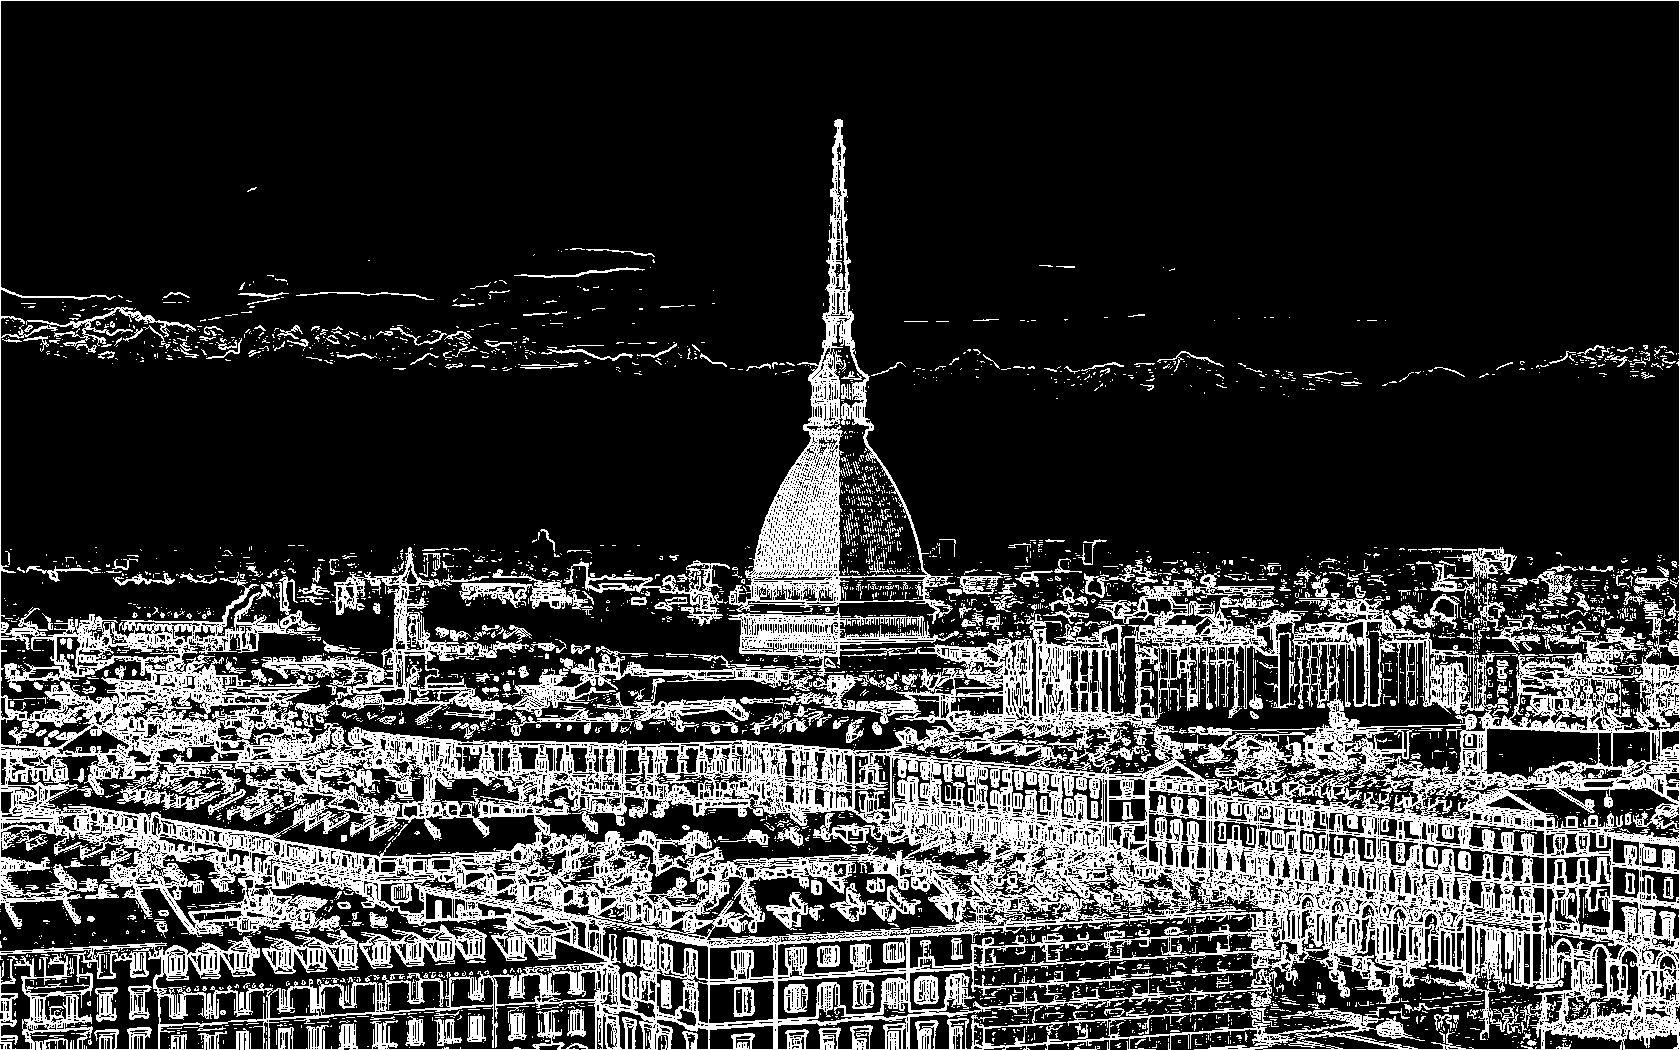
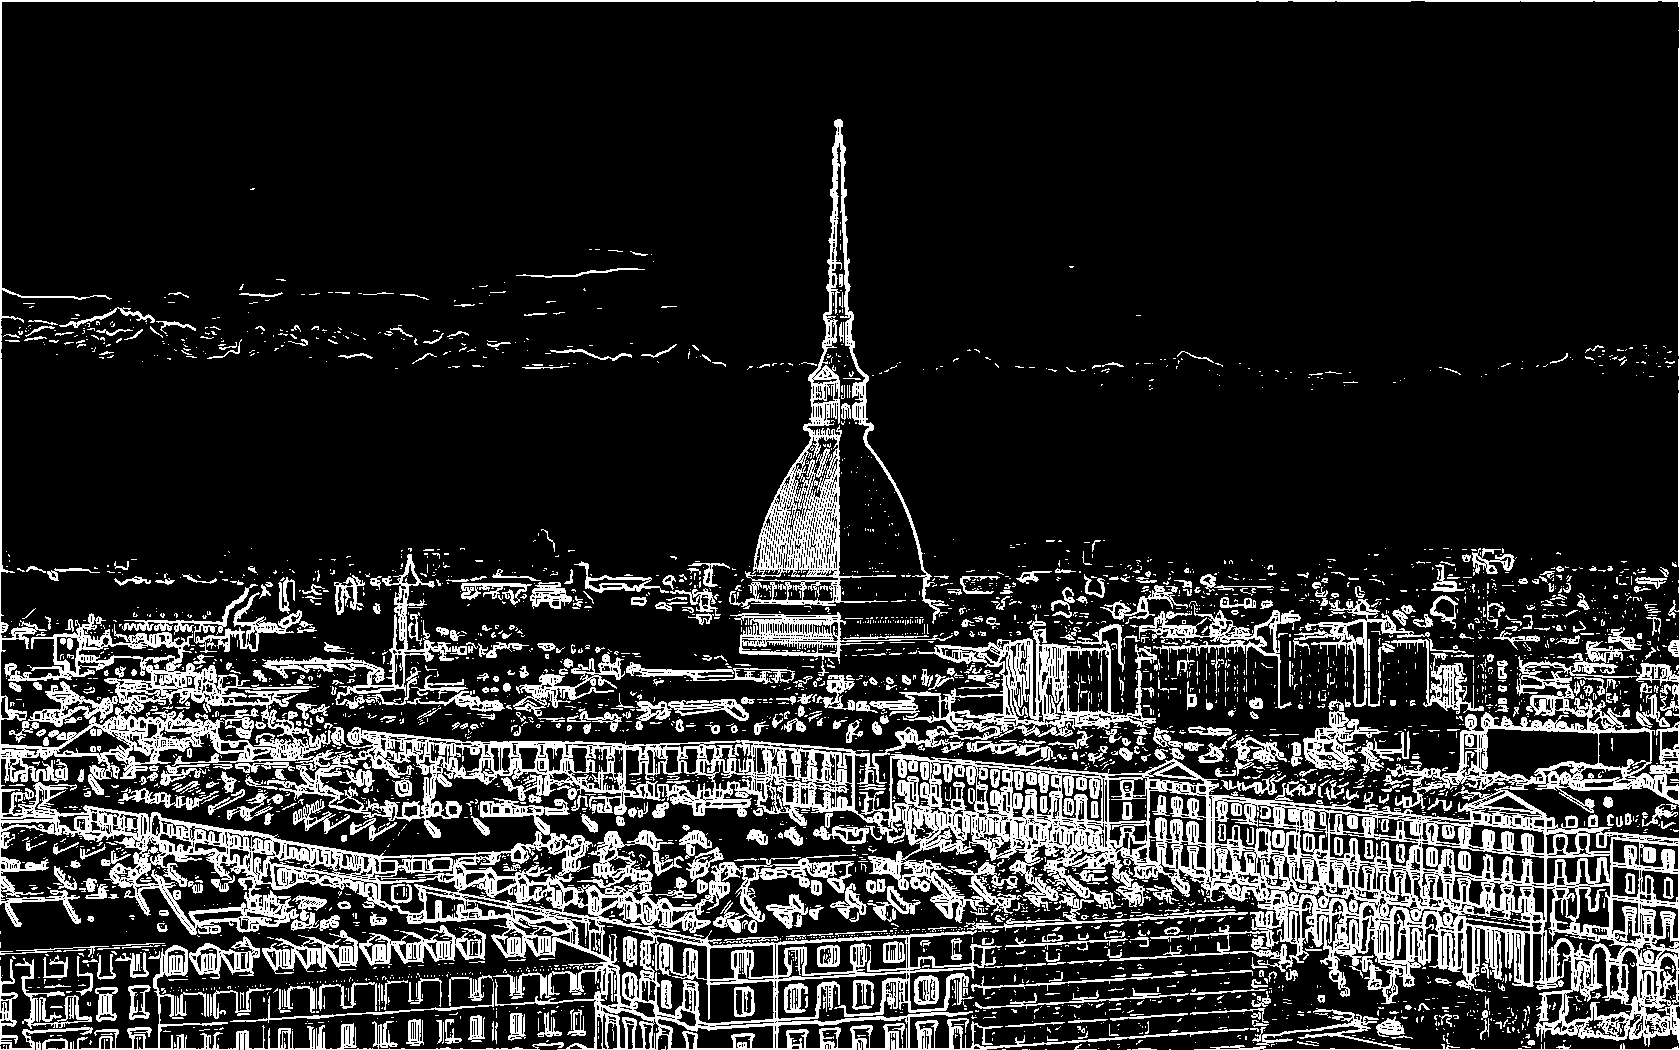
benchmark & readme added

diff --git a/src/edge.cpp b/src/edge.cpp
@@ -3,14 +3,16 @@
 
 #include <iostream>
 #include <cmath>
-#include <vector>
+#include <chrono>
+#include <memory>
 #include "stb_image.h"
 #include "stb_image_write.h"
 
 
 using u8 = unsigned char;
 
-float conv(const std::vector<float>& mat, const float filter[3][3], int w, int h, int i, int j);
+template<typename T>
+float conv(const T* mat, const float filter[3][3], int w, int h, int i, int j);
 
 int main()
 {
@@ -29,56 +31,79 @@ int main()
         return 1;
     }
 
-    std::vector<float> image(height*width, 0.0f); 
+    auto image = std::make_unique<float[]>(height*width); 
     
+    // Sobel operators
+    const float Gx[3][3] = { {-1, 0, 1}, {-2, 0, 2}, {-1, 0, 1}};
+    const float Gy[3][3] = { {-1, -2, -1}, {0, 0, 0}, {1, 2, 1}};
+    const float blur_filter[3][3] = {
+        {0.0625, 0.125, 0.0625},
+        {0.1250, 0.250, 0.1250},
+        {0.0625, 0.125, 0.0625},
+    };    
+    
+    auto res_x = std::make_unique<float[]>(height*width); 
+    auto res_y = std::make_unique<float[]>(height*width); 
+
+    auto G = std::make_unique<float[]>(height*width); 
+    auto blurred = std::make_unique<float[]>(height*width); 
+    auto out = std::make_unique<u8[]>(height*width); 
+
+    auto start = std::chrono::high_resolution_clock::now();
     // Greyscale conversion formula per PMPP
     // L = r * 0.21 + g * 0.72 + b * 0.07
     for (int row = 0; row < height; row++) {
         for (int col = 0; col < width; col++) {
             int i = (row * width + col) * channels;
 
-            image[row*width + col] = data[i] * 0.21f + data[i+1] * 0.72f + data[i+2] * 0.07f;
+            image.get()[row*width + col] = data[i] * 0.21f + data[i+1] * 0.72f + data[i+2] * 0.07f;
         }
     } 
+
+    // Applying blur
+    for (int row = 0; row < height; row++) {
+        for (int col = 0; col < width; col++) {
+            blurred.get()[row*width+col] = conv(image.get(), blur_filter, width, height, row, col);
+        }
+    }
+
+    // Applying Sobel
+    for (int row = 0; row < height; row++) {
+        for (int col = 0; col < width; col++) {
+            res_x.get()[row*width+col] = conv(blurred.get(), Gx, width, height, row, col);
+            res_y.get()[row*width+col] = conv(blurred.get(), Gy, width, height, row, col);
+        }
+    }
+
+
+    // Computing the norm
+    for (int row = 0; row < height; row++) {
+        for (int col = 0; col < width; col++) {
+            G.get()[row*width+col] = sqrtf((res_x.get()[row*width+col]*res_x[row*width+col]) +(res_y.get()[row*width+col]*res_y[row*width+col]));
+
+            out.get()[row*width+col] =  (G.get()[row*width+col] > 100) ? 255 : 0;
+        }
+    }
+
+    auto end = std::chrono::high_resolution_clock::now();
+    float ms = std::chrono::duration<float, std::milli>(end - start).count();
+
+    std::cout << "CPU: " << ms << " ms\n";
     stbi_image_free(data);
-
-    // Sobel operators
-    const float Gx[3][3] = { {-1, 0, 1}, {-2, 0, 2}, {-1, 0, 1}};
-    const float Gy[3][3] = { {-1, -2, -1}, {0, 0, 0}, {1, 2, 1}};
-    
-    std::vector<float> res_x(height*width, 0.0f); 
-    std::vector<float> res_y(height*width, 0.0f); 
-
-    for (int row = 0; row < height; row++) {
-        for (int col = 0; col < width; col++) {
-            res_x[row*width+col] = conv(image, Gx, width, height, row, col);
-            res_y[row*width+col] = conv(image, Gy, width, height, row, col);
-        }
-    }
-
-    std::vector<float> G(width*height,0.0f);
-    std::vector<u8> out(width*height, 0.0f);
-
-    for (int row = 0; row < height; row++) {
-        for (int col = 0; col < width; col++) {
-            G[row*width+col] = sqrtf((res_x[row*width+col]*res_x[row*width+col]) +(res_y[row*width+col]*res_y[row*width+col]));
-
-            out[row*width+col] =  (G[row*width+col] > 100) ? 255 : 0;
-        }
-    }
-
     stbi_write_jpg(
-        "resources/cpu.jpg",
+        "resources/edges_cpu.jpg",
         width,
         height,
         1, // since it's greyscale 1 channel is fine
-        out.data(),
+        out.get(),
         width
     );
     return 0;
 }
 
-float conv(const std::vector<float>& mat, const float filter[3][3], int w, int h, int i, int j) {
+
+template<typename T>
+float conv(const T* mat, const float filter[3][3], int w, int h, int i, int j) {
     float res = 0.0f;
     
     for (int dy = -1; dy <= 1; dy++) {

diff --git a/README.md b/README.md
@@ -1,0 +1,39 @@
+ (Almost Canny) Edge Detection 
+
+A [Canny-style ](https://en.wikipedia.org/wiki/Canny_edge_detector) edge detector implemented in both C++ (CPU) and CUDA (GPU). Given a JPEG image, it outputs the edges as an image.
+
+## Methodology
+
+1. **Greyscale conversion**: RGB to single channel using `L = 0.21R + 0.72G + 0.07B`
+2. **Gaussian blur**: 3×3 kernel to suppress noise before edge detection
+3. **Sobel filter**: horizontal (Gx) and vertical (Gy) gradient computation
+4. **Magnitude & thresholding**: `G = sqrt(Gx² + Gy²)`, pixels above threshold are marked as edges
+
+## Requirements
+
+- C++20 or later (for type_traits)
+- CUDA Toolkit (for the GPU build)
+
+## Building & running
+
+**CPU:**
+
+```
+make cpu
+```
+
+**CUDA:**
+```
+make cuda
+```
+
+## Results
+As expected, Cuda version (\~3.5 ms) outperforms the CPU implementation (\~42.5 ms).
+
+![Original image](/resources/turin.jpg)
+![Output image](/resources/edges_gpu.jpg)
+
+
+## TO-DO
+Adding non-maximum suppression and hysteresis to make it a complete Canny implementation.
+